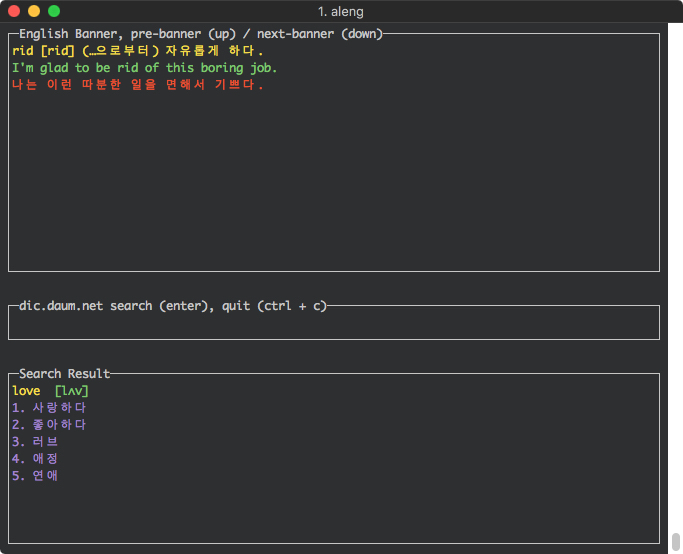
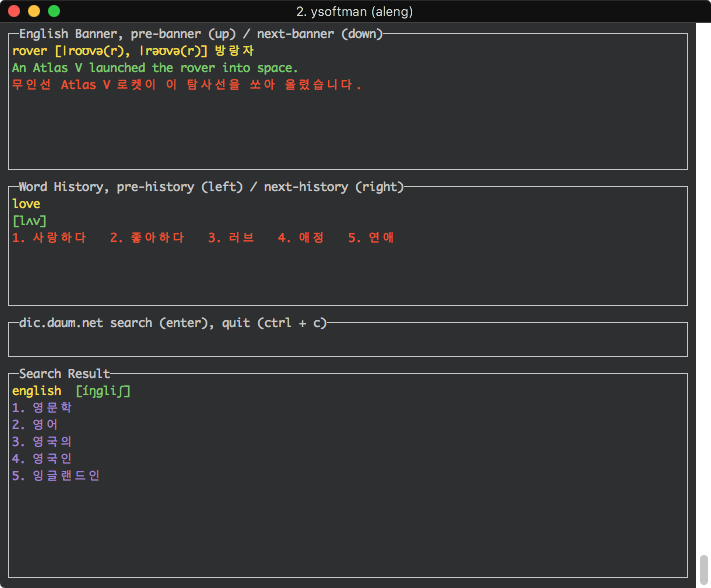
찾은 단어 기록 기능 추가

diff --git a/common.go b/common.go
@@ -15,6 +15,7 @@ import (
 )
 
 const BANNER_CMD_TEXT = "pre-banner (up) / next-banner (down)"
+const HISTORY_CMD_TEXT = "pre-history (left) / next-history (right)"
 const SEARCH_CMD_TEXT = "dic.daum.net search (enter)"
 const QUIT_CMD_TEXT = "quit (ctrl + c)"
 const BANNER_REFRESH_SEC = 10
@@ -22,7 +23,16 @@ const BANNER_REFRESH_SEC = 10
 var done = make(chan struct{})
 
 var engDic []string
+
+type WordData struct {
+	word      string
+	pronounce string
+	meanings  string
+}
+
+var wordHistory []WordData
 var curBannerIndex int
+var curWordHistoryIndex int
 
 func ClearScreen() {
 	cmdName := "clear"
@@ -71,6 +81,33 @@ func ReadDicFile() {
 	engDic = strings.Split(string(eng), "--")
 }
 
+func ReadHistroyFile() {
+	wordHistory = nil
+	curBannerIndex = -1
+	history, err := ioutil.ReadFile("history.txt")
+	if err != nil {
+		return
+	}
+	spWord := strings.Split(string(history), "--\n")
+	for i := 0; i < len(spWord); i++ {
+		curWord := (strings.Split(spWord[i], "\n"))
+		addWord := WordData{curWord[0], curWord[1], curWord[2]}
+		wordHistory = append(wordHistory, addWord)
+	}
+}
+
+func WordData2String() string {
+	out := ""
+	wc := len(wordHistory)
+	for i := 0; i < wc; i++ {
+		out += wordHistory[i].word + "\n" + wordHistory[i].pronounce + "\n" + wordHistory[i].meanings + "\n"
+		if wc > 1 && i < wc-1 {
+			out += "--\n"
+		}
+	}
+	return out
+}
+
 func GetNextBannerIndex() int {
 	curBannerIndex++
 	if curBannerIndex >= len(engDic) {
@@ -87,16 +124,46 @@ func GetPreBannerIndex() int {
 	return curBannerIndex
 }
 
-func GetPreBannerContent() []string {
+func GetNextWordHistoryIndex() int {
+	curWordHistoryIndex++
+	if curWordHistoryIndex >= len(wordHistory) {
+		curWordHistoryIndex = 0
+	}
+	return curWordHistoryIndex
+}
+
+func GetPreWordHistoryIndex() int {
+	curWordHistoryIndex--
+	if curWordHistoryIndex < 0 {
+		curWordHistoryIndex = len(wordHistory) - 1
+	}
+	return curWordHistoryIndex
+}
+
+func GetPreBanner() []string {
 	if len(engDic) > 0 {
 		return strings.Split(strings.TrimPrefix(engDic[GetPreBannerIndex()], "\n"), "\n")
 	}
 	return nil
 }
 
-func GetNextBannerContent() []string {
+func GetNextBanner() []string {
 	if len(engDic) > 0 {
 		return strings.Split(strings.TrimPrefix(engDic[GetNextBannerIndex()], "\n"), "\n")
+	}
+	return nil
+}
+
+func GetPreWord() *WordData {
+	if len(wordHistory) > 0 {
+		return &wordHistory[GetPreWordHistoryIndex()]
+	}
+	return nil
+}
+
+func GetNextWord() *WordData {
+	if len(wordHistory) > 0 {
+		return &wordHistory[GetNextWordHistoryIndex()]
 	}
 	return nil
 }
@@ -121,18 +188,29 @@ func SearchEngWord(word string) (string, string, string) {
 	doc.Find(selector).Each(func(i int, s *goquery.Selection) {
 		pronounce += s.Text() + "  "
 	})
-	pronounce += "\n"
 
 	// copy selector string using chrome dev tool
 	// #mArticle > div.search_cont > div.card_word.\23 word.\23 eng > div.search_box.\23 box > div > ul > li:nth-child(1) > span.txt_search
 	selector = "#mArticle div.search_cont div.card_word.\\23 word.\\23 eng .search_box.\\23 box div ul.list_search span.txt_search"
 
 	cnt := 1
+	meanings_one_line := ""
 	doc.Find(selector).Each(func(i int, s *goquery.Selection) {
 		// meanings += s.Find("txt_search").Text()
 		meanings += strconv.Itoa(cnt) + ". " + s.Text() + "\n"
+		meanings_one_line += strconv.Itoa(cnt) + ". " + s.Text() + "   "
 		cnt++
 	})
 
+	// save the word to history.txt
+	if len(meanings) > 0 {
+		addWord := WordData{strings.TrimSpace(word), strings.TrimSpace(pronounce), strings.TrimSpace(meanings_one_line)}
+		wordHistory = append(wordHistory, addWord)
+		buffer := []byte(WordData2String())
+		ioutil.WriteFile("history.txt", buffer, 0644)
+		ReadHistroyFile()
+	}
+
+	pronounce += "\n"
 	return word, meanings, pronounce
 }

diff --git a/gocuiEnv.go b/gocuiEnv.go
@@ -15,12 +15,18 @@ import (
 
 func layout(g *gocui.Gui) error {
 	maxX, maxY := g.Size()
-	if v, err := g.SetView("english_banner", 0, 0, maxX-1, maxY/2-1); err != nil {
+	if v, err := g.SetView("english_banner", 0, 0, maxX-1, maxY/4); err != nil {
 		if err != gocui.ErrUnknownView {
 			return err
 		}
 		v.Title = "English Banner, " + BANNER_CMD_TEXT
 		// fmt.Fprintln(v, GetNextColorString(0, "english banner"))
+	}
+	if v, err := g.SetView("word_history", 0, maxY/4+1, maxX-1, maxY/2); err != nil {
+		if err != gocui.ErrUnknownView {
+			return err
+		}
+		v.Title = "Word History, " + HISTORY_CMD_TEXT
 	}
 	if v, err := g.SetView("search", 0, maxY/2+1, maxX-1, maxY/2+3); err != nil {
 		if err != gocui.ErrUnknownView {
@@ -36,7 +42,7 @@ func layout(g *gocui.Gui) error {
 		g.SetCurrentView("search")
 	}
 
-	if v, err := g.SetView("searchResult", 0, maxY/2+5, maxX-1, maxY-1); err != nil {
+	if v, err := g.SetView("searchResult", 0, maxY/2+4, maxX-1, maxY-1); err != nil {
 		if err != gocui.ErrUnknownView {
 			return err
 		}
@@ -73,7 +79,7 @@ func bannerUp(g *gocui.Gui, v *gocui.View) error {
 	g.Update(func(g *gocui.Gui) error {
 		bannerView, _ := g.View("english_banner")
 		bannerView.Clear()
-		inner := GetPreBannerContent()
+		inner := GetPreBanner()
 		for j := 0; j < len(inner); j++ {
 			fmt.Fprintln(bannerView, GetNextColorString(j, inner[j]))
 		}
@@ -86,9 +92,39 @@ func bannerDown(g *gocui.Gui, v *gocui.View) error {
 	g.Update(func(g *gocui.Gui) error {
 		bannerView, _ := g.View("english_banner")
 		bannerView.Clear()
-		inner := GetNextBannerContent()
+		inner := GetNextBanner()
 		for j := 0; j < len(inner); j++ {
 			fmt.Fprintln(bannerView, GetNextColorString(j, inner[j]))
+		}
+		return nil
+	})
+	return nil
+}
+
+func historyPre(g *gocui.Gui, v *gocui.View) error {
+	g.Update(func(g *gocui.Gui) error {
+		historyView, _ := g.View("word_history")
+		historyView.Clear()
+		theWord := GetPreWord()
+		if theWord != nil {
+			fmt.Fprintln(historyView, GetNextColorString(0, theWord.word))
+			fmt.Fprintln(historyView, GetNextColorString(1, theWord.pronounce))
+			fmt.Fprintln(historyView, GetNextColorString(2, theWord.meanings))
+		}
+		return nil
+	})
+	return nil
+}
+
+func historyNext(g *gocui.Gui, v *gocui.View) error {
+	g.Update(func(g *gocui.Gui) error {
+		historyView, _ := g.View("word_history")
+		historyView.Clear()
+		theWord := GetNextWord()
+		if theWord != nil {
+			fmt.Fprintln(historyView, GetNextColorString(0, theWord.word))
+			fmt.Fprintln(historyView, GetNextColorString(1, theWord.pronounce))
+			fmt.Fprintln(historyView, GetNextColorString(2, theWord.meanings))
 		}
 		return nil
 	})
@@ -119,6 +155,12 @@ func StartGocui() {
 	if err := g.SetKeybinding("", gocui.KeyArrowDown, gocui.ModNone, bannerDown); err != nil {
 		log.Panicln(err)
 	}
+	if err := g.SetKeybinding("", gocui.KeyArrowLeft, gocui.ModNone, historyPre); err != nil {
+		log.Panicln(err)
+	}
+	if err := g.SetKeybinding("", gocui.KeyArrowRight, gocui.ModNone, historyNext); err != nil {
+		log.Panicln(err)
+	}
 
 	var wg sync.WaitGroup
 	wg.Add(1)
@@ -134,7 +176,7 @@ func StartGocui() {
 				g.Update(func(g *gocui.Gui) error {
 					bannerView, _ := g.View("english_banner")
 					bannerView.Clear()
-					inner := GetNextBannerContent()
+					inner := GetNextBanner()
 					for j := 0; j < len(inner); j++ {
 						fmt.Fprintln(bannerView, GetNextColorString(j, inner[j]))
 					}

diff --git a/aleng.go b/aleng.go
@@ -23,7 +23,7 @@ func StartBanner() {
 
 			case <-time.After(BANNER_REFRESH_SEC * time.Second):
 				ClearScreen()
-				inner := GetNextBannerContent()
+				inner := GetNextBanner()
 				for j := 0; j < len(inner); j++ {
 					fmt.Println(GetNextColorString(j, inner[j]))
 				}
@@ -49,6 +49,7 @@ func main() {
 	// fmt.Println(SearchEngWord("love"))
 	// os.Exit(0)
 	ReadDicFile()
+	ReadHistroyFile()
 	// StartBanner()
 	// StartSearchEngWord()
 	StartGocui()

diff --git a/termboxgoEnv.go b/termboxgoEnv.go
@@ -45,7 +45,7 @@ func StartTermBoxGo() {
 			case <-time.After(BANNER_REFRESH_SEC * time.Second):
 				termbox.Clear(termbox.ColorDefault, termbox.ColorDefault)
 				printString(0, 5, SEARCH_CMD_TEXT+", "+QUIT_CMD_TEXT, termbox.ColorWhite)
-				inner := GetNextBannerContent()
+				inner := GetNextBanner()
 				for j := 0; j < len(inner); j++ {
 					fgcolor := termbox.ColorYellow
 					if j%2 == 0 {

diff --git a/README.md b/README.md
@@ -10,7 +10,13 @@ go get -u "github.com/nsf/termbox-go"
 go get -u "github.com/PuerkitoBio/goquery"
 go get -u "github.com/fatih/color"
 go get -u "github.com/ysoftman/gocui"
+# 또는 glide 사용시 (https://github.com/Masterminds/glide)
+glide install
+
+# 빌드
 go build
+
+# 실행
 ./aleng
 ```
 
